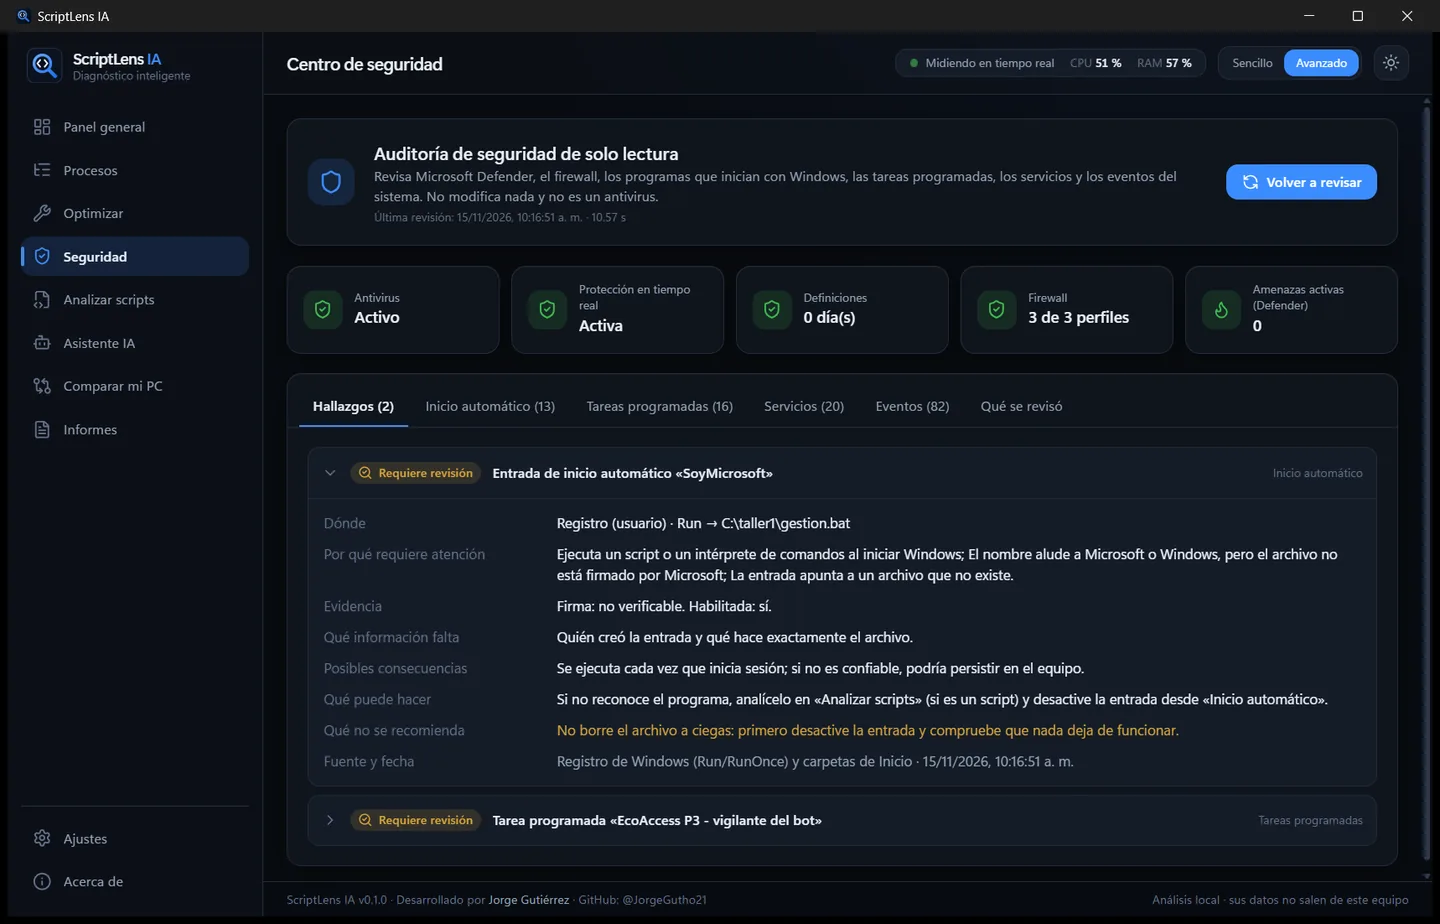
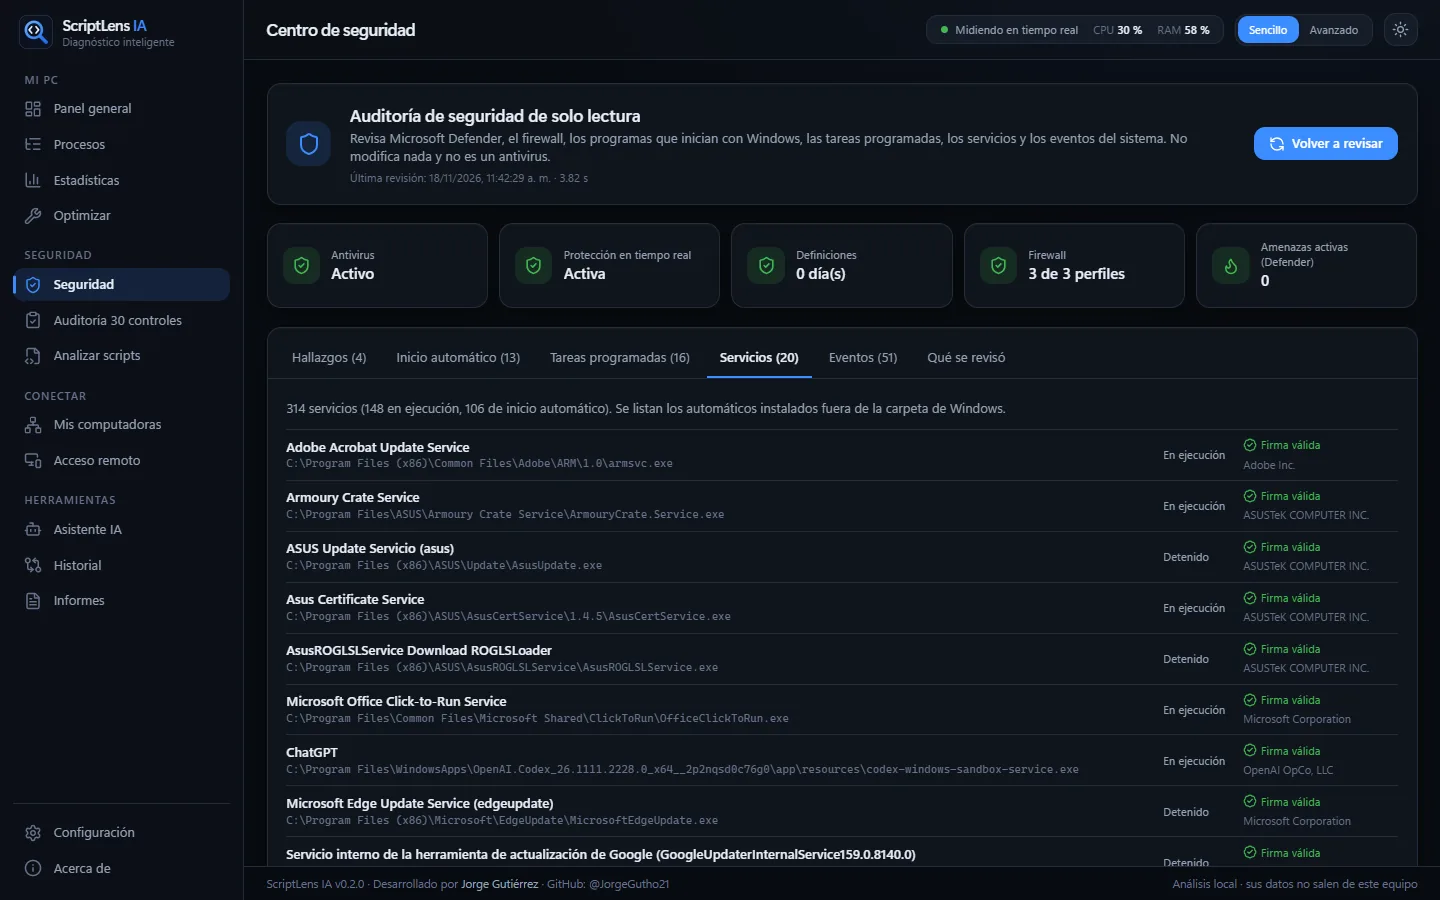
Volver a tomar las capturas que mostraban datos personales
Las capturas 09, 12, 15, 17 y 19 mostraban el nombre real del equipo,
una carpeta de OneDrive institucional y tareas y rutas de otro proyecto.
Se volvieron a tomar en una instancia aislada con el nombre neutro
PC-PRINCIPAL (demo_capturas.py ahora también sustituye platform.node).
La de seguridad muestra la pestaña Servicios y la del informe es la
primera página de un PDF real. Se actualizan los textos de las figuras.

diff --git a/site/index.html b/site/index.html
@@ -165,7 +165,7 @@
               </div>
             </article>
             <article class="modulo" role="tabpanel" id="p-seguridad" aria-labelledby="m-seguridad">
-              <img src="img/09_seguridad-p.webp" srcset="img/09_seguridad-p.webp 720w, img/09_seguridad.webp 1440w" sizes="(min-width: 960px) 760px, 100vw" width="1440" height="924" loading="lazy" alt="Centro de seguridad con el estado de Defender, firewall e inicio automático">
+              <img src="img/09_seguridad-p.webp" srcset="img/09_seguridad-p.webp 720w, img/09_seguridad.webp 1440w" sizes="(min-width: 960px) 760px, 100vw" width="1440" height="900" loading="lazy" alt="Centro de seguridad con el estado de Defender y del firewall y los servicios de terceros con su firma">
               <div class="modulo-texto">
                 <h3>Seguridad de Windows</h3>
                 <p>Revisa Microsoft Defender, el firewall, lo que arranca con Windows, las tareas programadas y los servicios. Cada hallazgo trae la evidencia y una sugerencia; nada se cambia por tu cuenta.</p>
@@ -213,7 +213,7 @@
               </div>
             </article>
             <article class="modulo" role="tabpanel" id="p-informes" aria-labelledby="m-informes">
-              <img src="img/15_informes-p.webp" srcset="img/15_informes-p.webp 720w, img/15_informes.webp 1440w" sizes="(min-width: 960px) 760px, 100vw" width="1440" height="924" loading="lazy" alt="Pantalla de informes con los botones para crear PDF y HTML">
+              <img src="img/15_informes-p.webp" srcset="img/15_informes-p.webp 720w, img/15_informes.webp 1440w" sizes="(min-width: 960px) 760px, 100vw" width="1440" height="900" loading="lazy" alt="Pantalla de informes con los botones para crear PDF y HTML">
               <div class="modulo-texto">
                 <h3>Informes e historial</h3>
                 <p>Guarda diagnósticos, compara dos momentos y exporta informes PDF o HTML con métricas, evidencias y recomendaciones. Se guardan en <em>Documentos\ScriptLens IA\Informes</em>.</p>
@@ -463,7 +463,7 @@
           <li data-cat="mipc"><a href="img/06_arbol_procesos.webp" data-galeria="Árbol padre-hijo de procesos"><img src="img/06_arbol_procesos-p.webp" width="720" height="462" loading="lazy" alt="Árbol de procesos"><span>Árbol de procesos</span></a></li>
           <li data-cat="mipc"><a href="img/21_estadisticas.webp" data-galeria="Estadísticas de mi PC (v0.2.0)"><img src="img/21_estadisticas-p.webp" width="720" height="462" loading="lazy" alt="Estadísticas de uso del equipo"><span>Estadísticas</span></a></li>
           <li data-cat="mipc"><a href="img/07_optimizar.webp" data-galeria="Optimización supervisada con acciones confirmadas"><img src="img/07_optimizar-p.webp" width="720" height="462" loading="lazy" alt="Optimización supervisada"><span>Optimizar</span></a></li>
-          <li data-cat="seguridad"><a href="img/09_seguridad.webp" data-galeria="Centro de seguridad"><img src="img/09_seguridad-p.webp" width="720" height="462" loading="lazy" alt="Centro de seguridad"><span>Seguridad</span></a></li>
+          <li data-cat="seguridad"><a href="img/09_seguridad.webp" data-galeria="Centro de seguridad"><img src="img/09_seguridad-p.webp" width="720" height="450" loading="lazy" alt="Centro de seguridad"><span>Seguridad</span></a></li>
           <li data-cat="seguridad"><a href="img/22_auditoria_30_controles.webp" data-galeria="Auditoría de 30 controles (v0.2.0)"><img src="img/22_auditoria_30_controles-p.webp" width="720" height="462" loading="lazy" alt="Auditoría de 30 controles"><span>Auditoría de 30 controles</span></a></li>
           <li data-cat="seguridad"><a href="img/10_analisis_script.webp" data-galeria="Análisis de un script sin ejecutarlo"><img src="img/10_analisis_script-p.webp" width="720" height="462" loading="lazy" alt="Análisis de un script"><span>Análisis de scripts</span></a></li>
           <li data-cat="seguridad"><a href="img/11_script_lineas_attack.webp" data-galeria="Explicación línea por línea con MITRE ATT&amp;CK"><img src="img/11_script_lineas_attack-p.webp" width="720" height="462" loading="lazy" alt="Script línea por línea con técnicas ATT&amp;CK"><span>Script línea por línea</span></a></li>
@@ -477,12 +477,12 @@
           <li data-cat="conectar"><a href="img/32_equipo_desconectado.webp" data-galeria="Equipo desconectado con sus últimas cifras (simulado)"><img src="img/32_equipo_desconectado-p.webp" width="720" height="450" loading="lazy" alt="Equipo desconectado"><span>Equipo desconectado</span></a></li>
           <li data-cat="herramientas"><a href="img/33_asistente_modos.webp" data-galeria="Asistente: respuesta inmediata y respuesta con IA rápida"><img src="img/33_asistente_modos-p.webp" width="720" height="450" loading="lazy" alt="Modos del asistente"><span>Modos del asistente</span></a></li>
           <li data-cat="herramientas"><a href="img/13_comparar.webp" data-galeria="Comparar dos diagnósticos"><img src="img/13_comparar-p.webp" width="720" height="462" loading="lazy" alt="Comparar diagnósticos"><span>Comparar mi PC</span></a></li>
-          <li data-cat="herramientas"><a href="img/15_informes.webp" data-galeria="Informes PDF y HTML"><img src="img/15_informes-p.webp" width="720" height="462" loading="lazy" alt="Pantalla de informes"><span>Informes</span></a></li>
+          <li data-cat="herramientas"><a href="img/15_informes.webp" data-galeria="Informes PDF y HTML"><img src="img/15_informes-p.webp" width="720" height="450" loading="lazy" alt="Pantalla de informes"><span>Informes</span></a></li>
           <li data-cat="herramientas" class="vertical"><a href="img/19_informe_pdf.webp" data-galeria="Informe PDF generado"><img src="img/19_informe_pdf-p.webp" width="360" height="509" loading="lazy" alt="Página de un informe PDF"><span>Informe PDF</span></a></li>
           <li data-cat="herramientas"><a href="img/20_ajustes_privacidad.webp" data-galeria="Ajustes de privacidad"><img src="img/20_ajustes_privacidad-p.webp" width="720" height="462" loading="lazy" alt="Ajustes de privacidad"><span>Privacidad</span></a></li>
           <li data-cat="herramientas"><a href="img/16_modo_claro.webp" data-galeria="Interfaz en modo claro"><img src="img/16_modo_claro-p.webp" width="720" height="462" loading="lazy" alt="Interfaz en modo claro"><span>Modo claro</span></a></li>
         </ul>
-        <p class="pequeno">Las capturas de procesos, seguridad, scripts, optimizar, comparar, informes, privacidad y modo claro son de la versión 0.1.0; esos módulos no cambiaron de aspecto. Los originales en PNG están en <a href="https://github.com/JorgeGutho21/ScriptLens/tree/main/docs/capturas">docs/capturas</a>.</p>
+        <p class="pequeno">Las capturas de procesos, scripts, optimizar, comparar, privacidad y modo claro son de la versión 0.1.0; esos módulos no cambiaron de aspecto. Los originales en PNG están en <a href="https://github.com/JorgeGutho21/ScriptLens/tree/main/docs/capturas">docs/capturas</a>.</p>
       </div>
     </section>
 

diff --git a/scripts/demo_capturas.py b/scripts/demo_capturas.py
@@ -21,6 +21,7 @@ from __future__ import annotations
 
 import json
 import os
+import platform
 import socket
 import sys
 import threading
@@ -42,6 +43,7 @@ def _patch(name: str) -> None:
     for mod in (ni, rs, rv, fs):
         mod.device_name = lambda: name
     socket.gethostname = lambda: name  # nunca mostrar el nombre real del equipo en las capturas
+    platform.node = lambda: name
     rs.local_addresses = lambda: list(DEMO_IFACE)
 
 

diff --git a/docs/academico/fuentes/tecnica.md b/docs/academico/fuentes/tecnica.md
@@ -241,9 +241,9 @@ Tabla: Reglas de diagnóstico de rendimiento
 
 La auditoría es de solo lectura y se ejecuta únicamente cuando el usuario la solicita. Una sola invocación de PowerShell consulta Microsoft Defender, el Centro de seguridad, el firewall, las tareas programadas, los eventos del registro Sistema de los últimos siete días, las cuentas locales y el plan de energía; el inicio automático se lee del Registro, incluido el estado de `StartupApproved` que usa el Administrador de tareas, y los servicios se leen con psutil. Cada hallazgo responde a ocho preguntas: qué se encontró, dónde, por qué requiere revisión, qué evidencia existe, qué información falta, qué consecuencias podría tener, qué puede hacer el usuario y qué no se recomienda. Solo Microsoft Defender puede originar el estado «amenaza detectada».
 
-Figura: docs/capturas/09_seguridad.png | Centro de seguridad con hallazgos reales | En el equipo de desarrollo, la auditoría tardó entre 3,4 y 6,4 s sin privilegios de administrador.
+Figura: docs/capturas/09_seguridad.png | Centro de seguridad: servicios de terceros con su firma | En el equipo de desarrollo, la auditoría tardó entre 3,4 y 6,4 s sin privilegios de administrador. La captura muestra la pestaña «Servicios» para no publicar rutas personales que aparecen en los hallazgos.
 
-En el equipo de desarrollo se detectaron dos elementos que requieren revisión: la entrada de inicio «SoyMicrosoft», que ejecuta `C:\taller1\gestion.bat`, un archivo que ya no existe y cuyo nombre alude a Microsoft sin estar firmado por esta empresa; y la tarea «EcoAccess P3 - vigilante del bot», que ejecuta un script. Ninguno se calificó como malicioso.
+En el equipo de desarrollo se detectaron elementos que requieren revisión, entre ellos la entrada de inicio «SoyMicrosoft», creada por el material del taller de clase: ejecuta un archivo que ya no existe y su nombre alude a Microsoft sin estar firmado por esta empresa. También se marcaron tareas programadas de otro proyecto del autor que ejecutan scripts. Ninguno se calificó como malicioso.
 
 # Clasificación de scripts
 
@@ -279,7 +279,7 @@ Al integrarlo se encontró que la etiqueta `qwen3:4b` de Ollama corresponde a un
 
 Cada respuesta se verifica cifra por cifra contra los datos entregados. En una prueba real, ante la pregunta «¿Por qué mi computador está lento?», el modelo afirmó que dos programas ocupaban «más del 70 % de la RAM», una cifra ausente de los datos; el verificador la marcó y la interfaz mostró «Cifras no verificadas: 70». Si Ollama no está instalado o falla durante la respuesta, el asistente responde con plantillas a partir de los mismos datos.
 
-Figura: docs/capturas/12_asistente_ia.png | Asistente con respuestas verificadas | La respuesta sobre programas sospechosos cita los hallazgos reales de la auditoría y aclara que Defender no registró amenazas.
+Figura: docs/capturas/12_asistente_ia.png | Asistente con respuestas verificadas | Respuesta en modo IA rápida con Qwen3 1.7B en la GPU del equipo de pruebas; bajo cada respuesta se indican el modelo, los tiempos y la evidencia usada.
 
 # Sistema de acciones supervisadas
 
@@ -301,7 +301,7 @@ Figura: docs/capturas/13_comparar.png | Comparación de dos diagnósticos | Incl
 
 Los informes reúnen el resumen del sistema, las métricas del último minuto, los programas destacados, los hallazgos de seguridad, las evidencias, las recomendaciones, las acciones realizadas, la comparación opcional y las limitaciones. El HTML es autocontenido; el PDF se genera con reportlab y la fuente Segoe UI. Ambos incluyen el nombre del proyecto, el autor, el repositorio y una marca de agua con 5 % de opacidad que no afecta la lectura.
 
-Figura: docs/capturas/19_informe_pdf.png | Primera página de un informe PDF real | Informe generado desde la aplicación instalada el 14 de noviembre de 2026.
+Figura: docs/capturas/19_informe_pdf.png | Primera página de un informe PDF real | Informe de la versión 0.2.0 generado el 18 de noviembre de 2026 en una instancia aislada con el nombre de equipo neutro «PC-PRINCIPAL».
 
 # Historial de desarrollo
 

diff --git a/docs/academico/fuentes/manual.md b/docs/academico/fuentes/manual.md
@@ -123,7 +123,7 @@ Un programa no es peligroso solo porque no lo conozca, no tenga firma o use much
 
 Figura: docs/capturas/18_inicio_automatico.png | Programas que inician con Windows | Las entradas de todos los usuarios requieren permisos de administrador y no se pueden cambiar desde aquí.
 
-Figura: docs/capturas/09_seguridad.png | Hallazgos de seguridad | Cada hallazgo explica qué se encontró, dónde, por qué, qué puede hacer y qué no se recomienda.
+Figura: docs/capturas/09_seguridad.png | Centro de seguridad | Resumen de Defender y del firewall, y servicios de terceros con su firma. En la pestaña «Hallazgos», cada uno explica qué se encontró, dónde, por qué, qué puede hacer y qué no se recomienda.
 
 # 13. Cómo realizar acciones supervisadas
 
@@ -175,7 +175,7 @@ Puede borrar diagnósticos con el icono de papelera, o todos a la vez en **Ajust
 
 Abra **Acerca de** y pulse **Buscar actualizaciones**. ScriptLens consulta GitHub solo cuando usted lo pide, no envía datos de su equipo y nunca instala nada por sí mismo. Si hay una versión nueva, descárguela desde la página oficial e instálela encima de la actual.
 
-Figura: docs/capturas/17_acerca_de.png | Pantalla Acerca de en modo claro | Muestra la versión, el autor y el repositorio oficial.
+Figura: docs/capturas/17_acerca_de.png | Pantalla Acerca de | Muestra la información técnica y las carpetas donde se guardan los datos y los informes.
 
 # 18. Cómo solucionar errores
 

diff --git a/docs/academico/fuentes/expo.md b/docs/academico/fuentes/expo.md
@@ -302,7 +302,7 @@ Yosifovich, P., Ionescu, A., Russinovich, M. E., & Solomon, D. A. (2017). *Windo
 
 ## Anexo A. Capturas del producto
 
-Figura: docs/capturas/09_seguridad.png | Centro de seguridad | Hallazgos reales del equipo de pruebas; ninguno se calificó como malicioso.
+Figura: docs/capturas/09_seguridad.png | Centro de seguridad | Estado de Defender y del firewall y servicios de terceros con su firma, en el equipo de pruebas.
 
 Figura: docs/capturas/10_analisis_script.png | Análisis de un script de demostración | El script contiene persistencia, ocultamiento y borrado; nunca se ejecutó.
 
